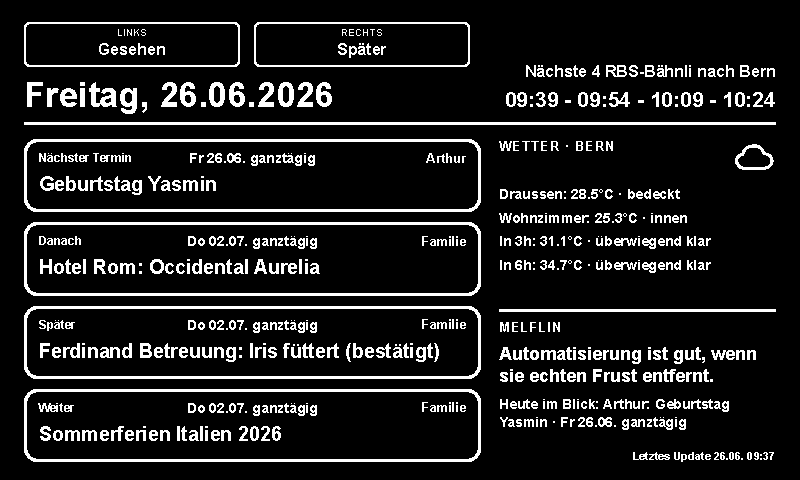
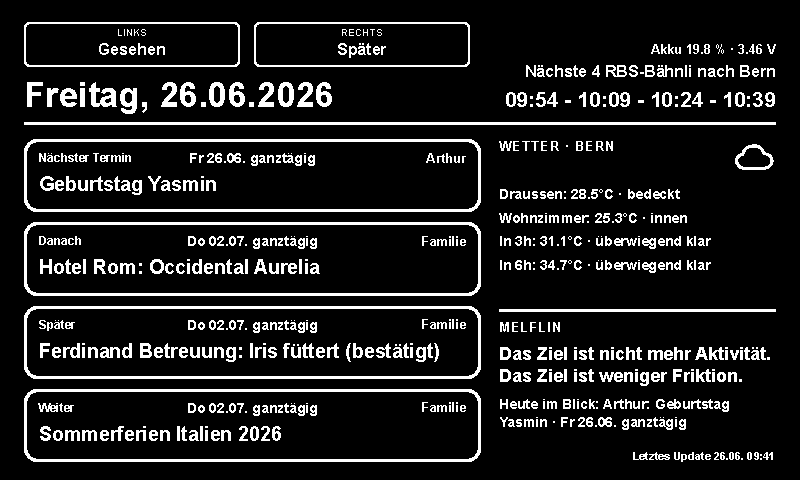
Refresh published display pages

diff --git a/static/melflin-display/index.html b/static/melflin-display/index.html
@@ -55,9 +55,9 @@
       </div>
       <div class='right-header'>
         <div class='transit-header'>
-          
+          <div class='device-status'>Akku 19.8 % · 3.46 V</div>
           <div class='rbs-title'>Nächste 4 RBS-Bähnli nach Bern</div>
-          <div class='rbs-times' data-transit-times>09:39 - 09:54 - 10:09 - 10:24</div>
+          <div class='rbs-times' data-transit-times>09:54 - 10:09 - 10:24 - 10:39</div>
         </div>
       </div>
     </div>
@@ -108,12 +108,12 @@
         </div>
         <div class='panel'>
           <h2>Melflin</h2>
-          <div class='note'>Automatisierung ist gut, wenn sie echten Frust entfernt.</div>
+          <div class='note'>Das Ziel ist nicht mehr Aktivität. Das Ziel ist weniger Friktion.</div>
           <div class='note-secondary'>Heute im Blick: Arthur: Geburtstag Yasmin · Fr 26.06. ganztägig</div>
         </div>
       </div>
     </div>
-    <div class='update-stamp'>Letztes Update 26.06. 09:37</div>
+    <div class='update-stamp'>Letztes Update 26.06. 09:41</div>
   </div>
   <script>
     (() => {

diff --git a/public/melflin-display/family/index.html b/public/melflin-display/family/index.html
@@ -87,7 +87,7 @@
         </div>
         </div>
     </div>
-    <div class='update'>Letztes Update 26.06. 09:37</div>
+    <div class='update'>Letztes Update 26.06. 09:41</div>
   </div>
 </body>
 </html>

diff --git a/static/melflin-display/family.html b/static/melflin-display/family.html
@@ -87,7 +87,7 @@
         </div>
         </div>
     </div>
-    <div class='update'>Letztes Update 26.06. 09:37</div>
+    <div class='update'>Letztes Update 26.06. 09:41</div>
   </div>
 </body>
 </html>

diff --git a/static/melflin-display/family/index.html b/static/melflin-display/family/index.html
@@ -87,7 +87,7 @@
         </div>
         </div>
     </div>
-    <div class='update'>Letztes Update 26.06. 09:37</div>
+    <div class='update'>Letztes Update 26.06. 09:41</div>
   </div>
 </body>
 </html>